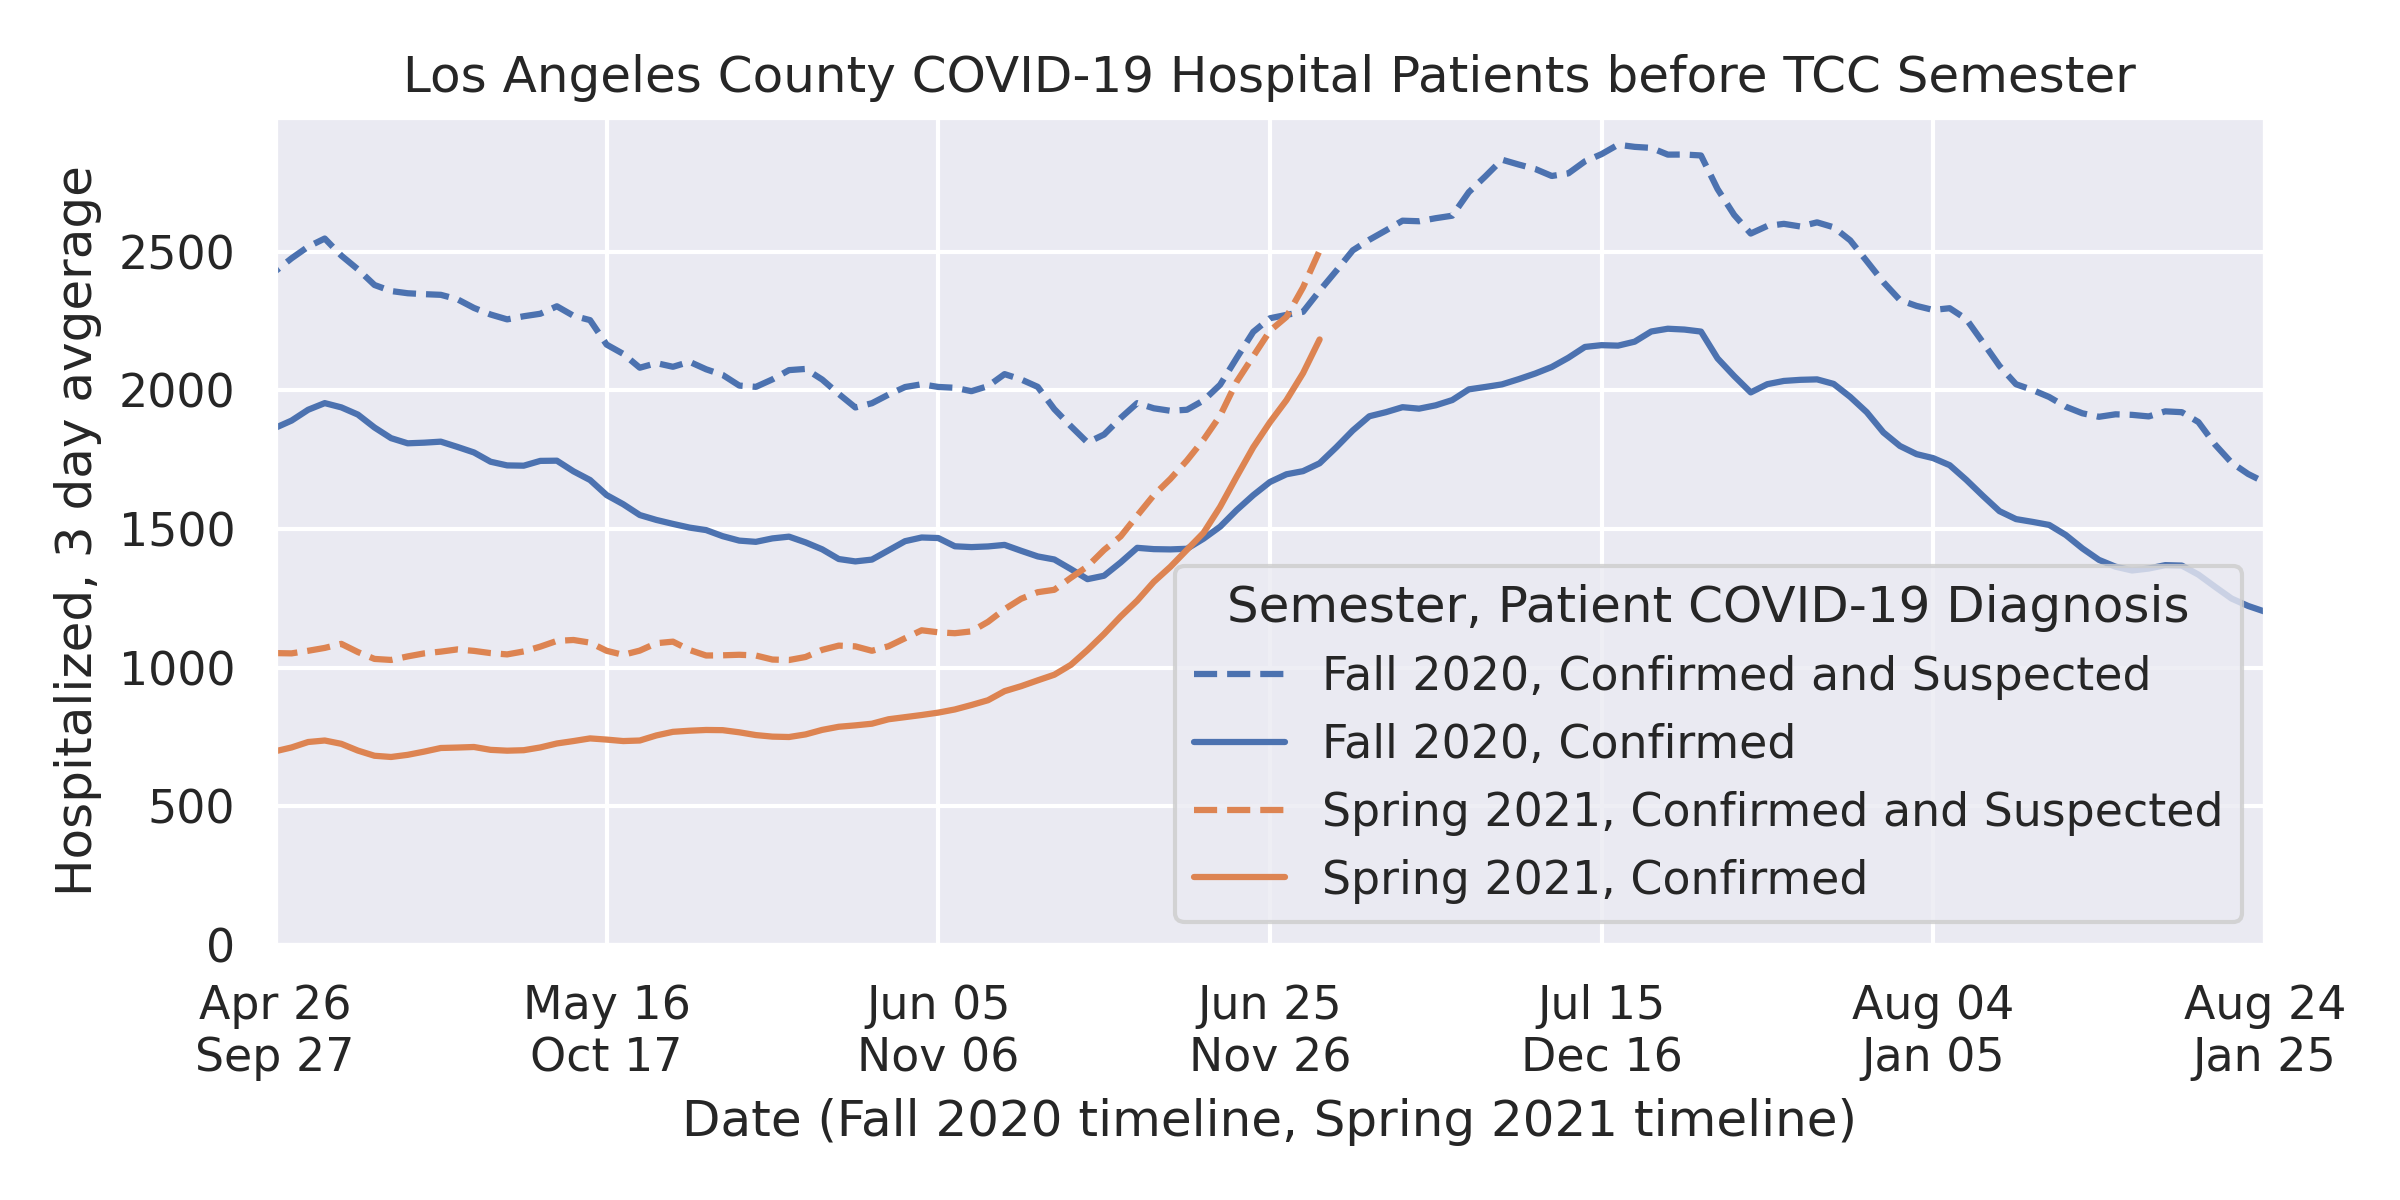
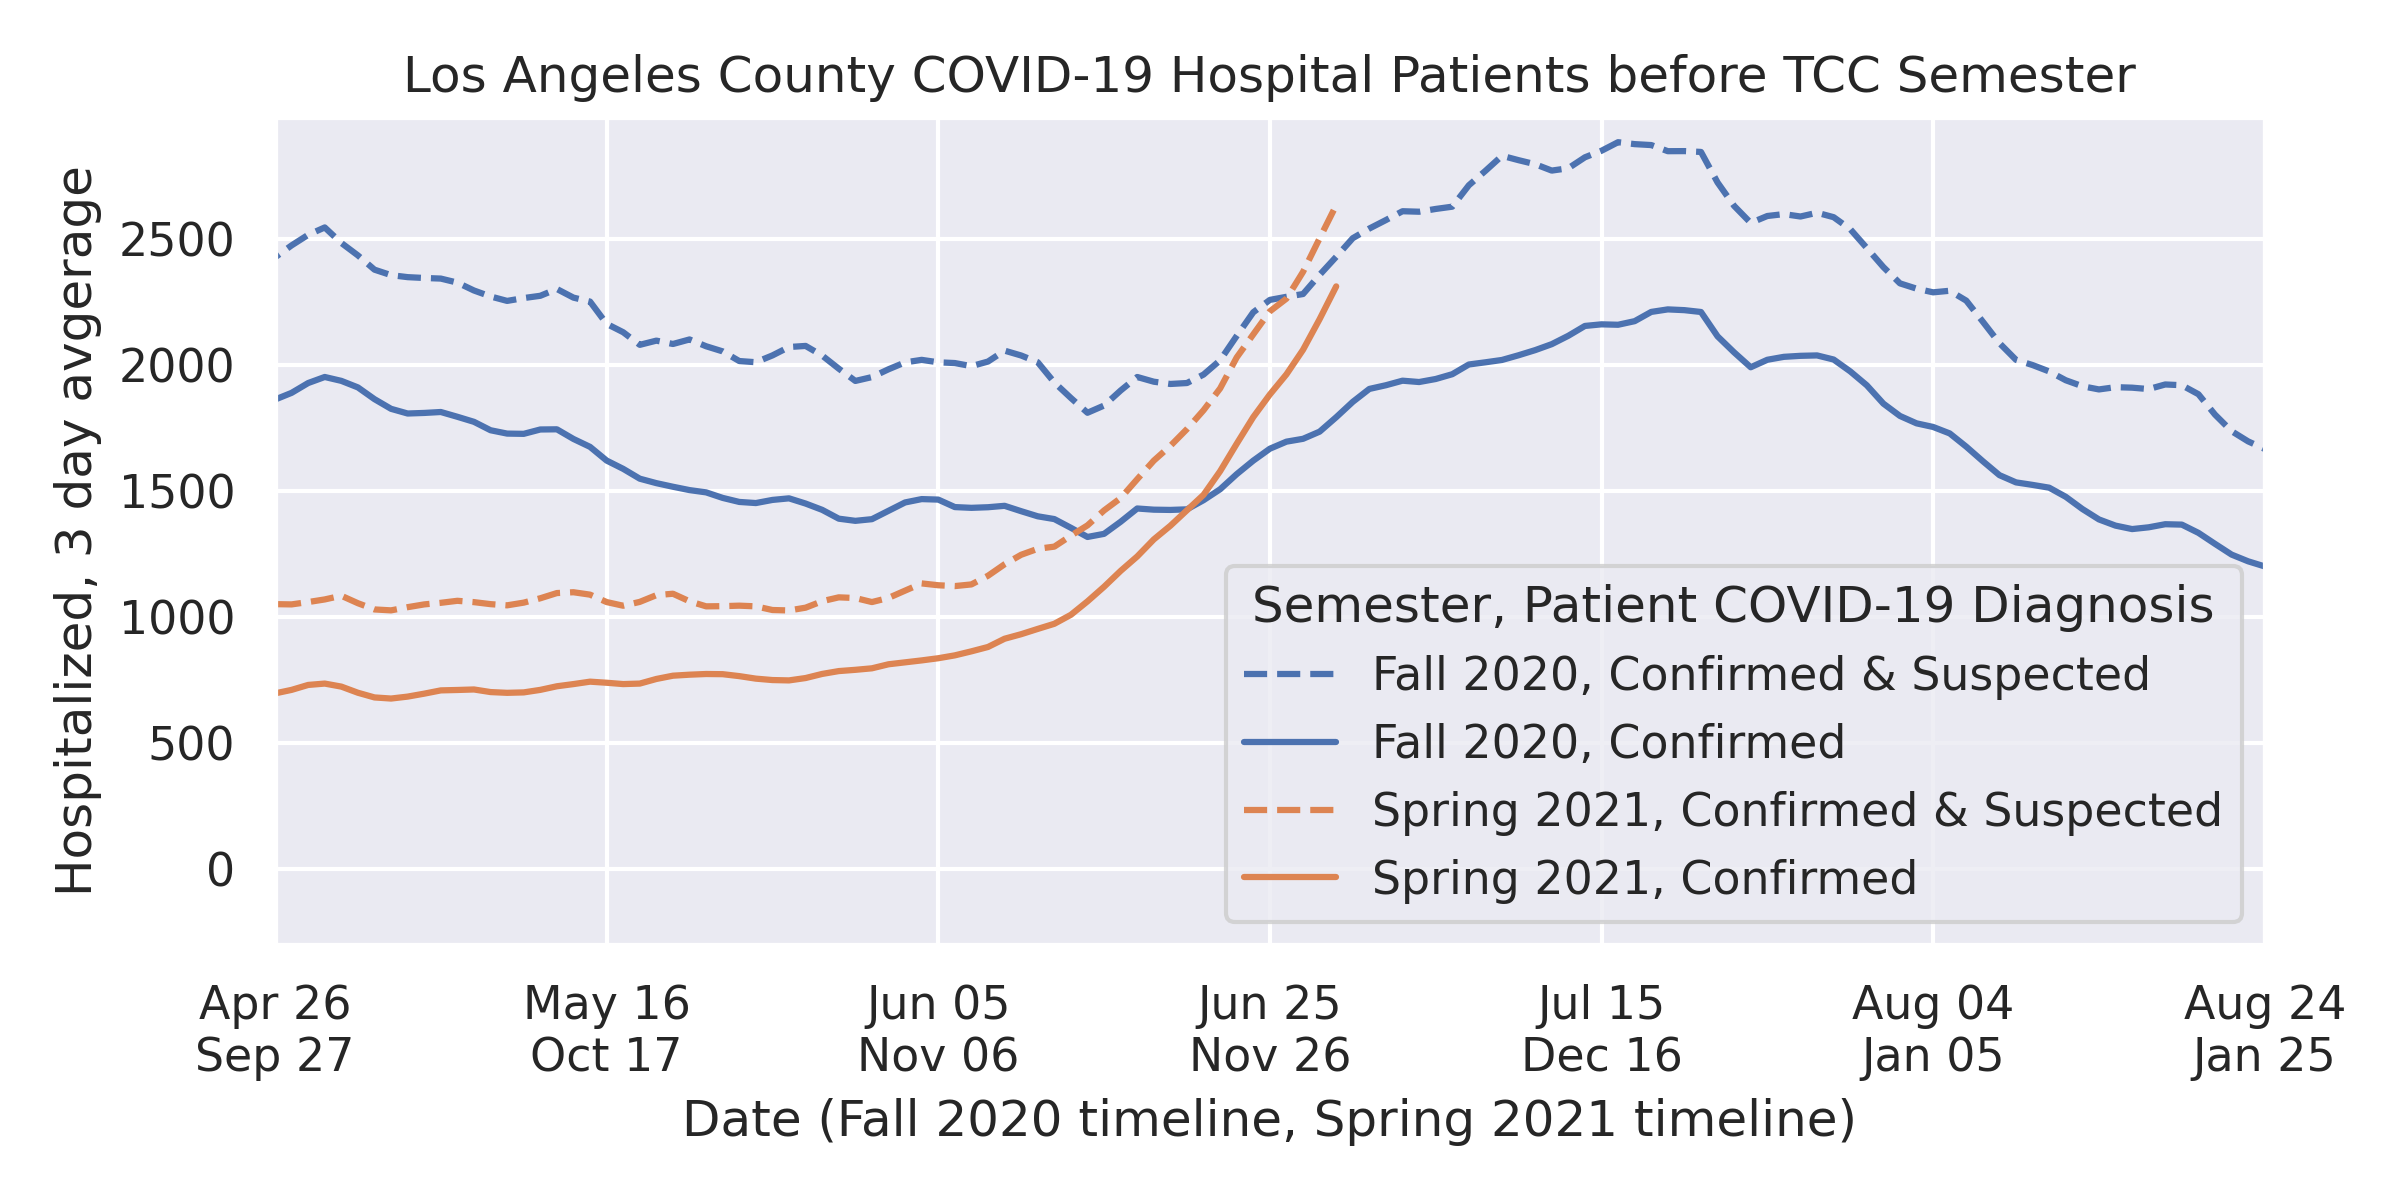
Update 2020-12-01

diff --git a/semester_start_countdown.py b/semester_start_countdown.py
@@ -154,7 +154,7 @@ widespread_message = 'Closed for in-person lectures'
 substantial_message, moderate_message = [
     'Lecture capacity limited to {}%'.format(x) for x in (25, 50)]
 vertical_pad = 50
-horizontal_pad = 1
+horizontal_pad = 1.5
 alpha = 0.75
 ax.text(horizontal_pad, substantial_rate+50, widespread_message, ha='right', color=widespread_color, alpha=alpha)
 ax.axhline(substantial_rate, color=substantial_color, linestyle='dashed', alpha=alpha)
@@ -171,7 +171,8 @@ ax.set_xlabel(X_AXIS_LABEL)
 ax.set_ylabel(NEW_CASES_AVG)
 ax.set_xlim(120, 0)
 ax.xaxis.set_major_formatter(FuncFormatter(date_axis_text))
-ax.set_ylim(moderate_rate-vertical_pad-180, df_la[NEW_CASES_AVG].max()+100)
+ax.set_ylim(moderate_rate-vertical_pad-250, df_la[NEW_CASES_AVG].max()+100)
+ax.legend(loc='upper left', title=SEMESTER)
 
 fig.savefig('docs/semester-start-v-new-cases.png')
 fig.show()
@@ -181,12 +182,12 @@ fig.show()
 
 
 fig, ax = plt.subplots(figsize=(8, 4), dpi=300)
-ax.plot(DAYS_UNTIL_SEMESTER, HOSPITALIZED_ALL_AVG, 'b--', label='Fall 2020, Confirmed and Suspected',
+ax.plot(DAYS_UNTIL_SEMESTER, HOSPITALIZED_ALL_AVG, 'b--', label='Fall 2020, Confirmed & Suspected',
         data=df_la[df_la[SEMESTER] == FALL_2020])
 ax.plot(DAYS_UNTIL_SEMESTER, HOSPITALIZED_CONFIRMED_AVG, 'b-', label='Fall 2020, Confirmed',
         data=df_la[df_la[SEMESTER] == FALL_2020])
 ax.plot(DAYS_UNTIL_SEMESTER, HOSPITALIZED_ALL_AVG, '--', color=sns.color_palette()[1],
-        label='Spring 2021, Confirmed and Suspected', data=df_la[df_la[SEMESTER] == SPRING_2021])
+        label='Spring 2021, Confirmed & Suspected', data=df_la[df_la[SEMESTER] == SPRING_2021])
 ax.plot(DAYS_UNTIL_SEMESTER, HOSPITALIZED_CONFIRMED_AVG, color=sns.color_palette()[1], label='Spring 2021, Confirmed',
         data=df_la[df_la[SEMESTER] == SPRING_2021])
 
@@ -196,7 +197,7 @@ ax.xaxis.set_major_formatter(FuncFormatter(date_axis_text))
 ax.set_ylabel('Hospitalized, 3 day avgerage')
 ax.set_title('Los Angeles County COVID-19 Hospital Patients before TCC Semester')
 ax.set_xlim(120, 0)
-ax.set_ylim(0, df_la[HOSPITALIZED_ALL_AVG].max()+100)
+ax.set_ylim(-300, df_la[HOSPITALIZED_ALL_AVG].max()+100)
 fig.savefig('docs/semester-start-v-hospitalized.png')
 fig.show()
 
